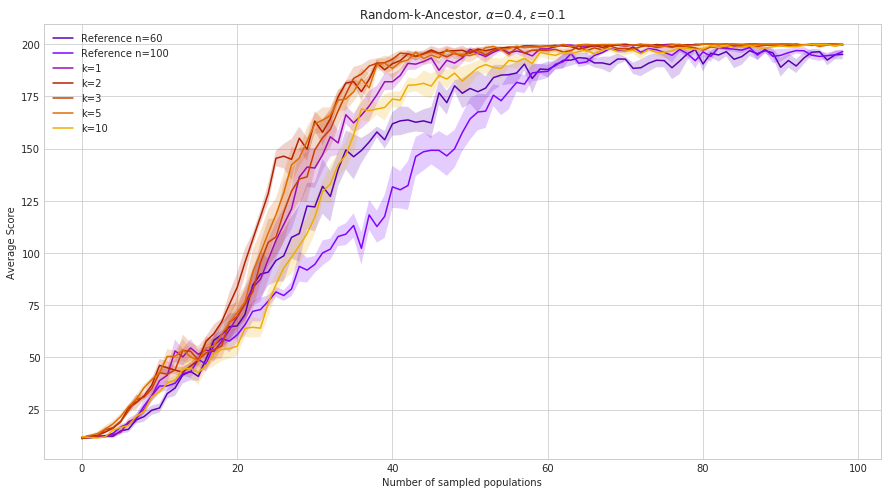
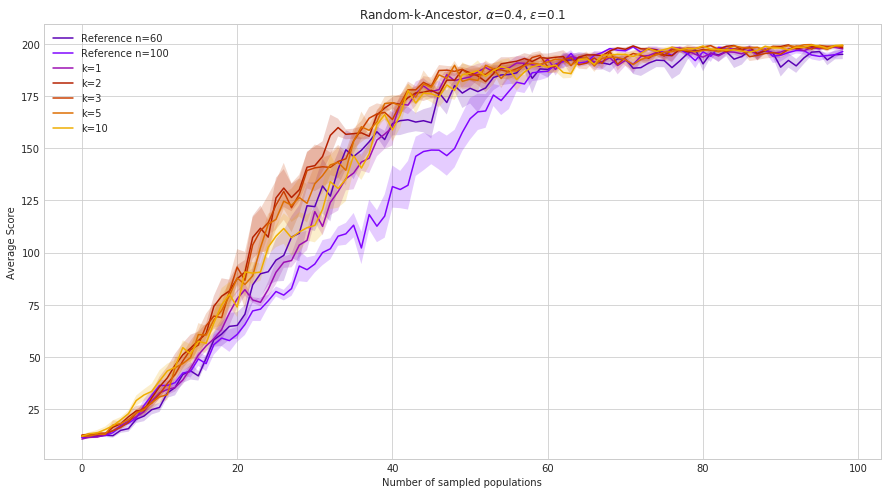
had to redo some experiments because of a small mistake

Changed region(s): [[0.0304, 0.0607, 0.973, 0.9109]]

diff --git a/_posts/2018-05-25-sample-efficiency-evolution-strategies.md b/_posts/2018-05-25-sample-efficiency-evolution-strategies.md
@@ -46,7 +46,7 @@ In their paper (Sun et al. 2009) propose to applied the first version of the imp
 
 ### Using the archive
 
-Since we are trying to maximize sample reuse, it could be tempting to apply the importance mixing mechanism to all the individuals of the archive and only keep those that were accepted. But this would undeniably bias the empirical distribution of the samples: the importance mixing mechanism as introduced above needs the inverse rejection sampling to be mathematically correct (i.e generate samples from the wanted distribution). Selecting only the samples that were sucessful in  the first step would be like selecting only coins that landed on heads when asked to select representative samples from an archive of coin toss. When the size of the population  is fixed (which is usually the case), we could however randomly sample n individuals from the archive and then apply the importance mixing step on  those individuals. But there is a chance that by doing that we would just select really poor samples and thus end up with poor reuse. Actually, if we want to maximize the probability to reuse a sample (suppose that \\(\alpha\\) is fixed), then we want to select samples such that the ratio \\(\frac{p(z, \theta)}{p(z, \theta^\prime)}\\) is as large as possible. A first naive algorithm could be the following:
+Since we are trying to maximize sample reuse, it could be tempting to apply the importance mixing mechanism to all the individuals of the archive and only keep those that were accepted. But this would undeniably bias the empirical distribution of the samples: the importance mixing mechanism as introduced above needs the inverse rejection sampling to be mathematically correct (i.e generate samples from the wanted distribution). Selecting only the samples that were sucessful in  the first step would be like selecting only coins that landed on heads when asked to select samples from an archive of coin toss. When the size of the population  is fixed (which is usually the case), we could however randomly sample n individuals from the archive and then apply the importance mixing step on  those individuals. But there is a chance that by doing that we would just select really poor samples and thus end up with poor reuse. Actually, if we want to maximize the probability to reuse a sample (suppose that \\(\alpha\\) is fixed), then we want to select samples such that the ratio \\(\frac{p(z, \theta)}{p(z, \theta^\prime)}\\) is as large as possible. A first naive algorithm could be the following:
 1. For all the individuals in  the archive, compute the ratio \\(\frac{p(z, \theta)}{p(z, \theta^\prime)}\\)
 2. Sort the individuals by their ratio
 3. Apply the importance mixing step to the \\(n\\) best samples.
@@ -102,37 +102,37 @@ We reproduce the same experiments with the "Random-k-Ancestor" strategy, again w
 ![alt-text-1](../images/cartpole_average_score_correct_0.4.png )
 <br><br>
 
-Here everything converges to the optimal maximum, irrespectively of the parameter values. This is in accordance with the sampling scheme, which is unbiased. Again, most of the time the results outperform both of the references, even without taking sample efficiency into account. 
+Here everything converges to the optimal maximum, irrespectively of the parameter values. This is in accordance with the sampling scheme, which is unbiased. Most of the time the results are on par with, or outperform both of the references, even without taking sample efficiency into account. 
 
 ### Sample reuse
 
-To take into account sample reuse, we modify the time scale in the above plots: instead of plotting the average score as a function of the index of the generation, we plot the average score as a function of the number of episodes evaluated up until this score was obtained. This means that periods of time where sample reuse was high will be contracted whereas periods of time where sample reuse was low will be expanded. This allows for a good comparison of the different strategies in terms of the number of function evaluations.
+To take into account sample reuse, we plot the average cumuluted number of reused sample during the experiments. This means that sample efficiency is encoded in the slope of the curves: during periods of time where sample reuse was high, the curve will quickly increase, whereas during periods of time where sample reuse was low, the curve will increase slowly. This allows for a good visual comparison  between the different strategies in terms of the number of function evaluations.
 
 #### Best-k-Ancestor 
 
 <br><br>
-![](../images/cartpole_sample_efficiency_theta_0.8.png )
+![](../images/cartpole_n_reused_theta_0.8.png )
 <br><br>
-![](../images/cartpole_sample_efficiency_theta_0.6.png )
+![](../images/cartpole_n_reused_theta_0.6.png )
 <br><br>
-![](../images/cartpole_sample_efficiency_theta_0.4.png )
+![](../images/cartpole_n_reused_theta_0.4.png )
 <br><br>
 
-For this strategy the effect of \\(k\\) is quite clear: increasing \\(k\\) reduces the sample efficiency of the algorithm. This is not what we expected. One would think that more generations to sample from would give better samples, and thus more sample reuse. But instead, it appears that looking at only the last generation gives the best results. Increasing \\(\alpha\\) seems to increase the speed of the convergence early in the optimization process (meaning more sample reuse). But as the speed increases, so do the chances that the optimization process might end in a sub-optimal region of the space. 
+For this strategy the effect of \\(k\\) is clear, at least during the beginning of the training. Increasing \\(k\\) reduces the sample efficiency of the algorithm. This is not what we expected. One would think that more generations to sample from would give better samples, and thus more sample reuse. But instead, it appears that looking at only the last generation gives the best results. This tendency seems to be reversing during late training, where higher \\(k\\) correlates with higher slope. Increasing \\(\alpha\\) clearly increases the average number of reused sample, without much surprise this time.
 
 #### Random-k-Ancestor
 
 <br><br>
-![](../images/cartpole_sample_efficiency_correct_0.8.png )
+![](../images/cartpole_n_reused_correct_0.8.png )
 <br><br>
-![](../images/cartpole_sample_efficiency_correct_0.6.png )
+![](../images/cartpole_n_reused_correct_0.6.png )
 <br><br>
-![](../images/cartpole_sample_efficiency_correct_0.4.png )
+![](../images/cartpole_n_reused_correct_0.4.png )
 <br><br>
 
-Here, the same rule applies for \\(\alpha\\): as it increases, so does sample reuse. However, increasing \\(k\\) has the opposite effect.
+Here, the same rules apply for \\(\alpha\\) and \\(k\\): as \\(\alpha\\) increases, so does sample reuse. However, increasing \\(k\\) has the opposite effect.
 
-All in all, it would seem that to get the best possible reuse whilst taking performance into account, the best parameters that could be chosen are \\(\alpha=1\\) and \\(k=1\\), which in fact is equivalent to using the importance mixing strategy as introduced by (Sun et al. 2009) (with their \\(\alpha\\) being \\(\epsilon\\) here). Although it could be argued that \\(k=2\\) produces better results, especially in the second strategy, we think that the optimal value is probably problem-dependent, but that the differences in performance are not significant enough here. As for the sampling strategy to choose, when \\(k\\) is equal to 1, both are equivalent (although the Best-k-Ancestor involves a sort, it takes almost no time compared to the evaluations of the densities). But if someone was to opt for a higher value of \\(k\\), then it would be important to keep using the Random-k-Ancestor strategy to ensure convergence.
+All in all, it would seem that to get the best possible reuse whilst taking performance into account, the best parameters that could be chosen are \\(\alpha=1\\) and \\(k=1\\) (for those parameters both strategies are identical), which in fact is equivalent to using the importance mixing strategy as introduced by (Sun et al. 2009) (with their \\(\alpha\\) being \\(\epsilon\\) here). It is interesting to see that as \\(k\\) increases, sample reuse suffers the most during early training, whereas results during late training are somehow equivalent regardless of the value of \\(k\\). We suspect this behavior to be correlated with the dynamics of the sampling distributions in the CMA-ES algorithm. As the optimization  process starts, CMA-ES quickly finds a direction for improvement (most likely because CartPole is relatively easy to solve), and commits to this direction by rapidly adapting the covariance matrix. During this phase CMA-ES probably takes large steps in a given direction, meaning that populations get far apart, explaining why only the latest population might have good candidates for sample reuse. On the other hand, once the optimization settles around an extrema, the sequence of covariance matrices collapses to a single point, meaning that the populations stay close from one another for a large number of generations, which eventually leads to more sample reuse.
 
 ## 2D experiments
 
@@ -160,7 +160,7 @@ This time, things are a little more messy. We can see the bias that we mentioned
 
 ## Conclusion
 
-From those experiments, we can conclude that the importance mixing mechanism does indeed allow for better sample efficiency. Simply reusing the samples from the previous generations can reduce the number of fitness evaluations by a factor of 5. However, contrary to our expectations, increasing the number of previous generations to sample from does not increase this gain in efficiency. The reason behind this behaviour is still unclear, and calls for further investigation.
+From those experiments, we can conclude that the importance mixing mechanism does indeed allow for better sample efficiency. Simply reusing the samples from the previous generations can reduce the number of fitness evaluations by a factor of at least 2 (this number could be increased easily, by setting \\(\alpha\\) to 1 and reducing \\(\epsilon\\) (which we didn't touch in our experiments). However, contrary to our expectations, increasing the number of previous generations to sample from does not increase this gain in efficiency. The reason behind this behaviour most likely lies in the CMA-ES algorithm itself, and calls for further investigation.
 
 ----
 ****
